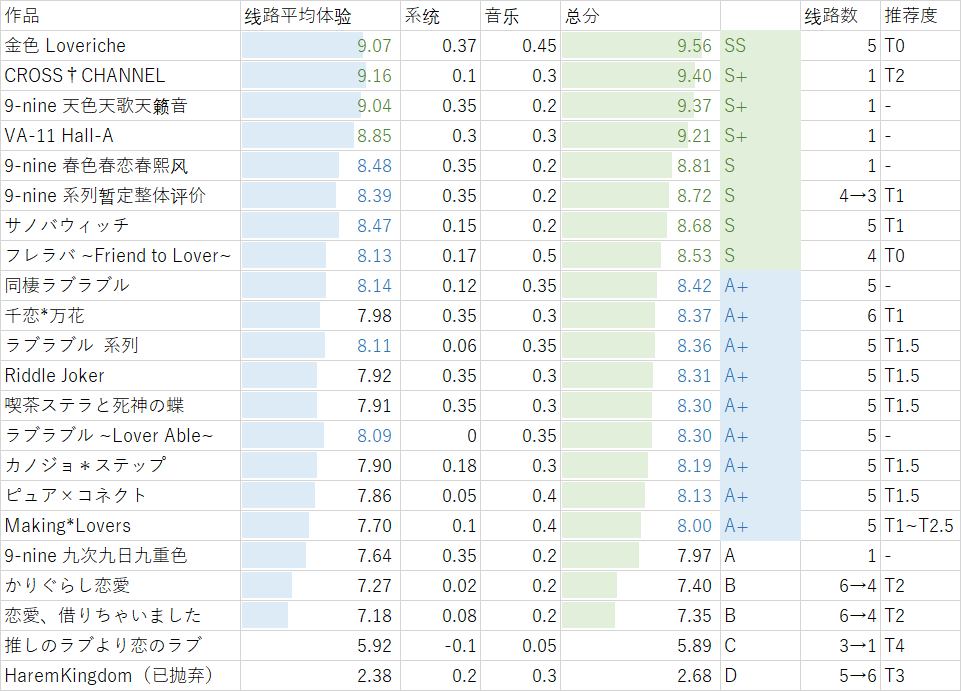
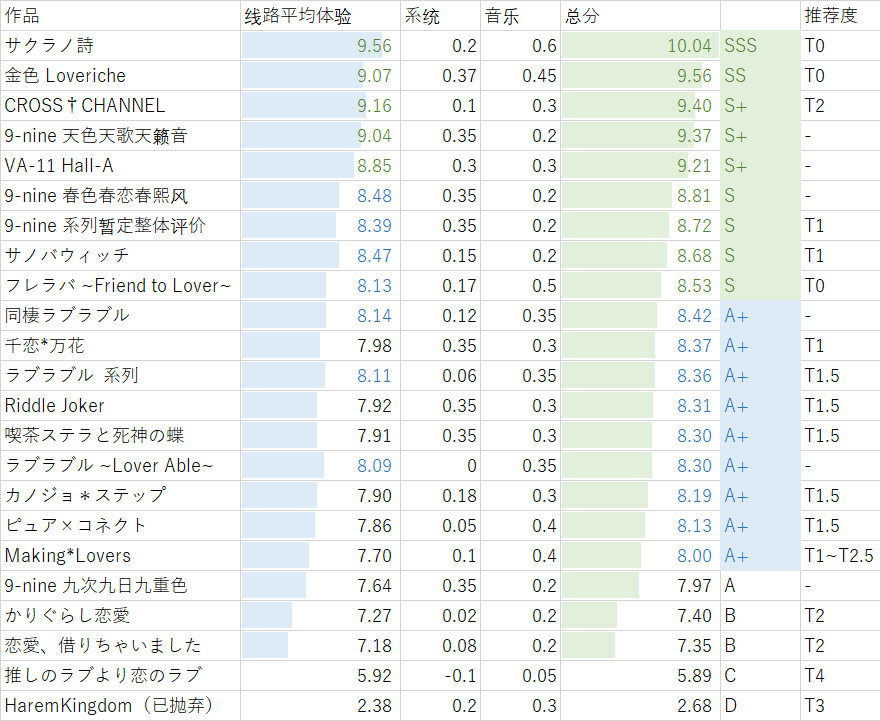
MoeImp sakuuta-5 fin

diff --git a/impression/sakuuta.md b/impression/sakuuta.md
@@ -17,16 +17,25 @@ permalink: /impression/sakuuta
 
 游玩时间： 2020 年 4 月
 
-| サクラノ詩 <br />－櫻の森の上を舞う－ | 概览 |
-| :---------------: |:---: |
-| I | 9.37 |
-| II | 11.25 |
-| III 真琴 | 10.3 |
-| III 稟 | 10.9 |
-| III 里奈 / 优美 | 12.05 |
-| III 雫 | 12.2 |
-| 整体评分 | -<br />N- |
-|Rank| - |
+| サクラノ詩 <br />－櫻の森の上を舞う－ | 分数 | 权重 |
+| :---------------: |---: |---: |
+| I | 9.37 |0%|
+| II | 11.25 |5%|
+| III 真琴 | 10.30 |5%|
+| III 稟 | 10.90 |5%|
+| III 里奈 / 优美 | 12.05 |15%|
+| III 雫 | 12.20 |15%|
+| V 蓝 | 11.90 |15%|
+| IV & V TE | 12.25 |40%|
+| VI | - |0%|
+| 整体评分 | 12.75<br />N10.04 | |
+|Rank| SSS | |
+
+---
+
+这部作品里包含的内涵实在是太多，以至于我很难一一去解释清楚。或者说，我很难去说我看懂了这部作品。不过这并不影响我被这个故事所震撼就是了。
+
+---
 
 #### I Fruhlingsbeginn
 
@@ -175,14 +184,67 @@ IV （因为无法准确体现标题的双关所以拒绝翻译）
 
 以及 staff 表有的是日文有的是英文，有什么深意吗？不知道。
 
+#### [V The Happy Prince and Other Tales](http://yoro.xyz/kawaiigirls/2020/04/21/sakuuta-5.html)
+
+##### 蓝（仅计算分支后）
+
+印象分 9.8→9.6/10 情感 0.75/0.8  
+人物刻画 0.4/0.5 剧情表现 0.4/0.5  
+人物（声音 + 作画）(0.2+0.35)/(0.3+0.4)  
+剧情深度 +0.2  
+章节总计 11.9/12.5
+
+##### True End（包含分支前）
+
+印象分 9.8→9.6/10 情感 0.75/0.8  
+人物刻画 0.4/0.5 剧情表现 0.5/0.5  
+人物（声音 + 作画）(0.2+0.35)/(0.3+0.4)  
+剧情深度 +0.4 ED 设计 +0.05  
+章节总计 12.25/12.5
+
+V 快乐王子与其他的童话
+
+想说的都写在上面的链接了，这里就不多说了。
+
+#### VI 櫻の森の下を歩む
+
+一切复归平静。  
+总有种物是人非的沧桑感。  
+但是又有一种轮回般的奇妙感。  
+——我是这么以为的，直到长山和托马斯又恶心了我一下。
+
+实际上以我来看，第六章后半有点画蛇添足的意味~~樱之刻大型预告片~~。故事停在第五章结尾就足够了。
+
+但是又有一种轮回般的奇妙感。
+
+最后，让人安心的，果然是，那个虽然没有血缘，但是作为亲人的存在。
+
+![fin](http://yoro.xyz/sakuuta.png)
+
 #### 整体评价
 
-整体体验 -  
-系统：ED 差分 +0.1  
-音乐 +0.55  
-作品总计 -/N- -
+整体体验 11.95  
+系统：ED 差分 +0.1 选项设计 +0.1  
+音乐 +0.6  
+作品总计 12.75/N10.04 SSS
 
 樱之诗不是一个让玩家去代入某个角色而去创作的故事，因此很难通过这部作品去寻找到一个情感的共鸣，因此很难引起作为玩家的我的情绪波动。相对的，在故事情节本身和对角色性格和情感的描绘则需要更为强力。
+
+有关选项设计的评论看[这里](http://yoro.xyz/kawaiigirls/2020/04/21/sakuuta-5.html)。
+
+对于故事本身我觉得已经没有必要多做评价了，就这样。
+
+感谢带给我这一个心灵旅途的作品，《樱之诗》。
+
+---
+
+> 天才的价值大众怎么会懂。那帮人无论在哪都只会根据周围人的评价自以为是地随便打分
+
+这是第六章里面的一句台词。
+
+我感觉我中了一箭。
+
+这个页面上的所有东西，看个乐呵算了。
 
 ---
 
